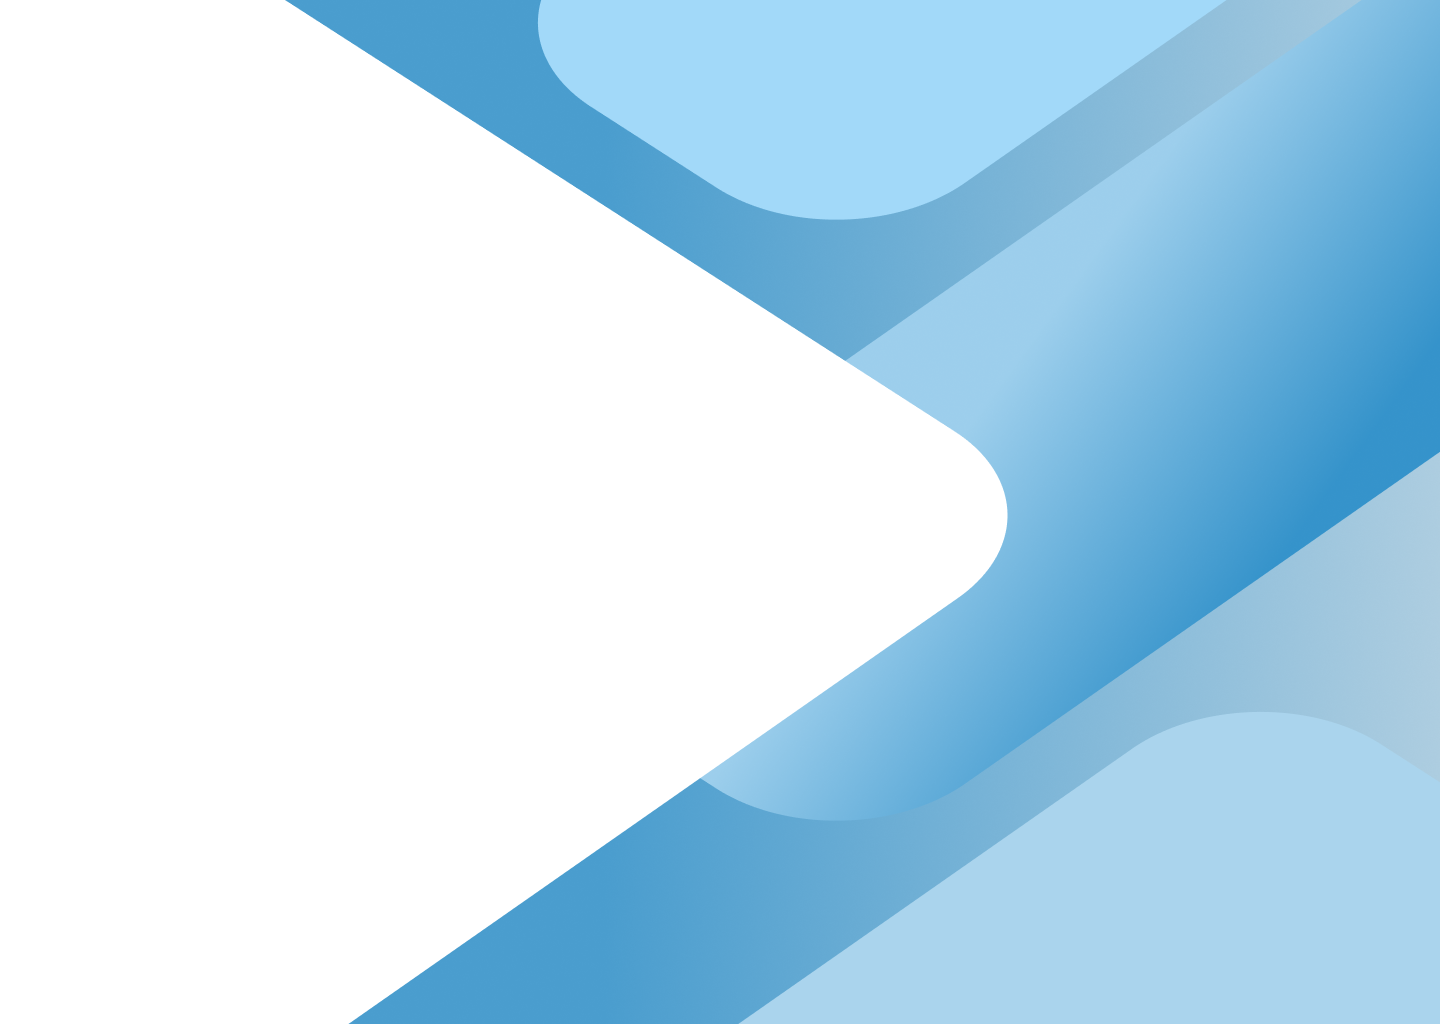
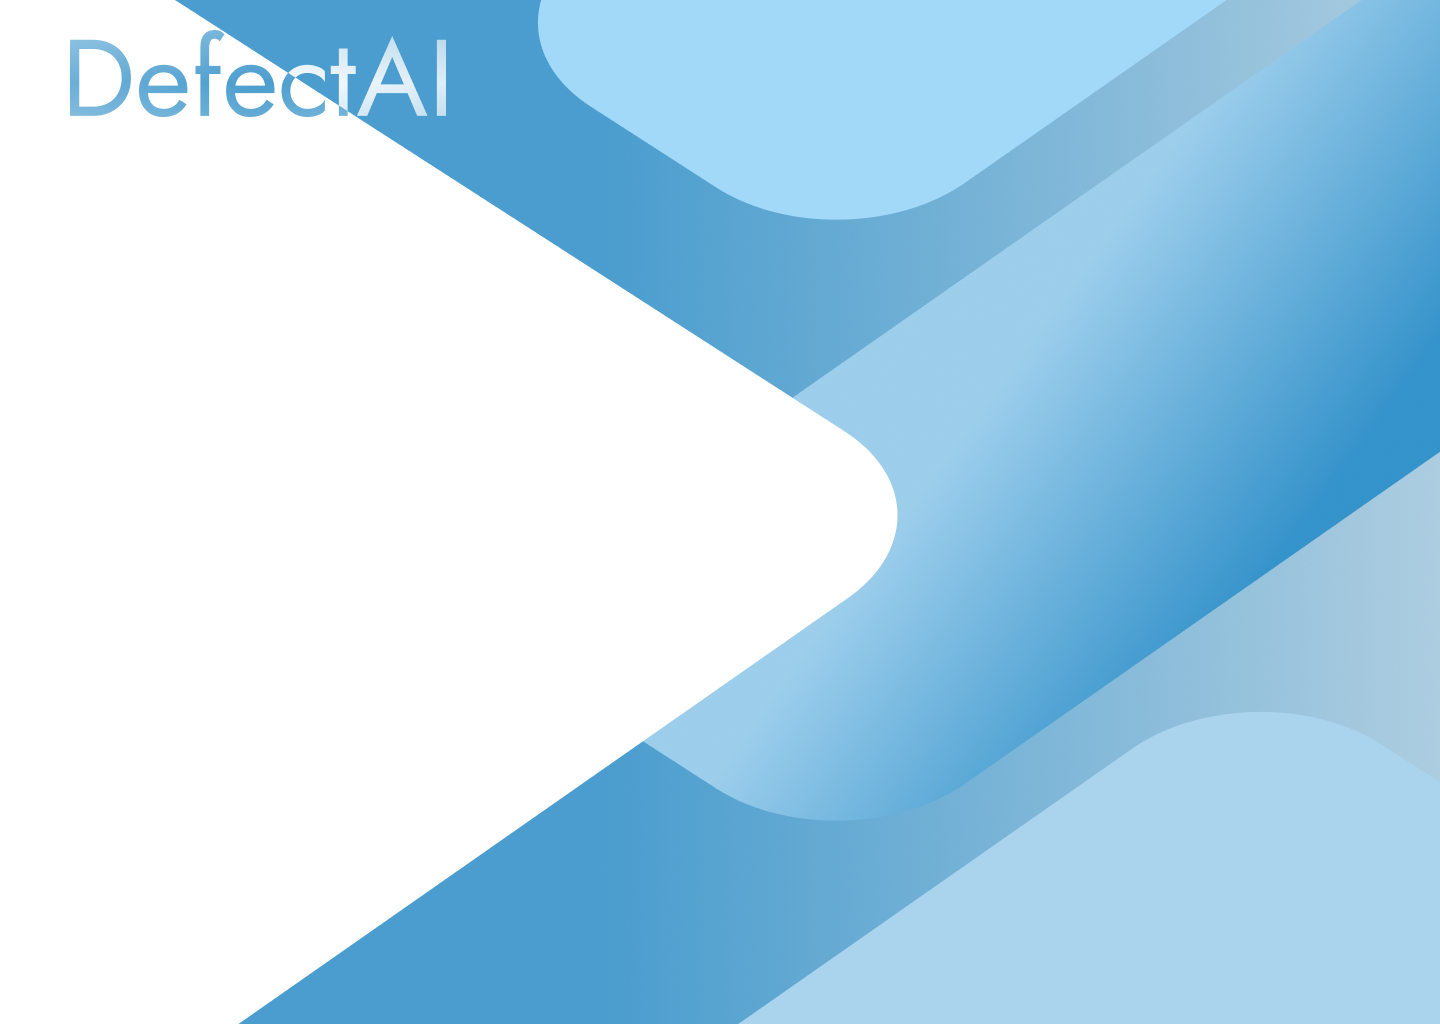
edit versions

Changed region(s): [[0.0312, 0.0, 0.7188, 1.0]]

diff --git a/src/components/Comparison.tsx b/src/components/Comparison.tsx
@@ -8,6 +8,8 @@ import { TriangleSquare } from "../ui";
 import { Loader } from "@mantine/core";
 import { IconChevronLeft, IconChevronRight } from "@tabler/icons-react";
 import { randomId } from "@mantine/hooks";
+import memo from '../img/memo.png';
+
 // import { GetSquareAmount } from "../modules/helpers";
 
 const Comparison: FC = () => {
@@ -63,14 +65,42 @@ const Comparison: FC = () => {
         return <h1>Ошибка</h1>
     }
     return (
-        <div ref={ref} style={{ width: "100%", height: "100%" }}>
-            <List items={currentArray} notFoundMessage='Не найдены координаты дефектов' renderItem={(triangle_square: number[]) => <TriangleSquare key={randomId()} firstTriangle={`10px solid ${triangle_square[0] == 1 ? 'red' : 'grey'}`} secondTriangle={`10px solid ${triangle_square[1] == 1 ? 'red' : 'grey'}`} />} />
+        <div ref={ref} style={{ width: "100%", height: "100%", marginTop: '90px' }}>
+            <List
+                items={currentArray}
+                notFoundMessage='Не найдены координаты дефектов'
+                renderItem={(triangle_square: number[]) => <TriangleSquare
+                    key={randomId()}
+                    firstTriangle={`10px solid ${triangle_square[0] == 1 ? 'red' : 'grey'}`}
+                    secondTriangle={`10px solid ${triangle_square[1] == 1 ? 'red' : 'grey'}`}
+                />}
+            />
             {i > 1 &&
-                <IconChevronLeft onClick={() => setI(i-4)}>Влево</IconChevronLeft>
+                <IconChevronLeft
+                    style={{
+                        color: '#4282ea',
+                        width: '50px',
+                        height: '50px'
+                    }}
+                    onClick={() => setI(i - 4)}
+                >Влево</IconChevronLeft>
             }
             {dataMatrix[i++] != undefined &&
-                <IconChevronRight onClick={() => setI(i++)}>Вправо</IconChevronRight>
+                <IconChevronRight
+                    style={{
+                        color: '#4282ea',
+                        width: '50px',
+                        height: '50px'
+                    }}
+                    onClick={() => setI(i++)}
+                >Вправо</IconChevronRight>
             }
+            <div style={{
+                display: 'flex',
+                justifyContent: 'flex-end'
+            }}>
+                <img width={'450px'} src={memo} />
+            </div>
         </div>
     )
 

diff --git a/src/components/Markup.tsx b/src/components/Markup.tsx
@@ -10,7 +10,9 @@ import { IconChevronLeft, IconChevronRight } from "@tabler/icons-react";
 import { randomId } from "@mantine/hooks";
 import { Button } from "@mantine/core";
 import { IconDownload } from "@tabler/icons-react";
+
 export const API_URL = 'http://localhost:4000'
+
 const Markup: FC = () => {
     const [searchParams, setSearchParams] = useSearchParams();
     let ref = useRef(null);
@@ -79,10 +81,24 @@ const Markup: FC = () => {
                 renderItem={(square: number) => <FilledSquare key={randomId()} background={square == 1 ? 'red' : '#b6b6b6'} />}
             />
             {i > 1 &&
-                <IconChevronLeft onClick={() => setI(i-4)}>Влево</IconChevronLeft>
+                <IconChevronLeft
+                    style={{
+                        color: '#4282ea',
+                        width: '50px',
+                        height: '50px'
+                    }}
+                    onClick={() => setI(i - 4)}
+                >Влево</IconChevronLeft>
             }
             {dataMatrix[i++] != undefined &&
-                <IconChevronRight onClick={() => setI(i++)}>Вправо</IconChevronRight>
+                <IconChevronRight
+                    style={{
+                        color: '#4282ea',
+                        width: '50px',
+                        height: '50px'
+                    }}
+                    onClick={() => setI(i++)}
+                >Вправо</IconChevronRight>
             }
             <div style={{
                 height: 'max-content',
@@ -93,9 +109,14 @@ const Markup: FC = () => {
                 margin: '25px'
             }}>
                 <IconDownload />
-                <span style={{ fontSize: '20px' }} onClick={() => window.open(`${API_URL}/${data?.data_table}`)}>Скачать таблицу по данной магнитограмме</span>
+                <span
+                    style={{ fontSize: '20px' }}
+                    onClick={() => window.open(`${API_URL}/${data?.data_table}`)}
+                >Скачать таблицу по данной магнитограмме</span>
             </div>
-            <Button onClick={() => navigate(`/versions?id=${searchParams.get("id")}`)}>Посмотреть все версии</Button>
+            <Button
+                onClick={() => navigate(`/versions?id=${searchParams.get("id")}`)}
+            >Посмотреть все версии</Button>
         </div>
     )
 }

diff --git a/src/components/Versions.tsx b/src/components/Versions.tsx
@@ -6,6 +6,7 @@ import { VersionsList } from "../modules/components";
 import { useDisclosure } from "@mantine/hooks";
 import CreateVersionModal from "../modules/components/CreateVersionModal";
 import '../ui/styles/mainDivSelect.css';
+import '../ui/styles/versionGridDiv.css';
 import { IconCirclePlus } from "@tabler/icons-react";
 
 
@@ -38,8 +39,8 @@ const Versions: FC = () => {
     let isSelected = useMemo(() => selection, [selection])
     let sel = true
     return (
-        <div className="mainDivSelect">
-            <div>
+        <div style={{width:'100%'}} className="mainDivSelect">
+            <div className="versionGridDiv">
                 <div
                     onClick={open}
                     style={{
@@ -49,19 +50,25 @@ const Versions: FC = () => {
                         cursor: 'pointer'
                     }}>
                     <IconCirclePlus width={90} height={90} />
-                    <h1 >Создать новую версию магнитограммы</h1>
+                    <h3 >Создать новую версию магнитограммы</h3>
                 </div>
                 {/* {isSelected
                     ? <h1 onClick={() => setSelection(true)}>Сравнить</h1>
                     : <h1>Выбрать</h1>
                     } */}
-                <VersionsList selection={selection} setSelection={setSelection} data={data} />
+                <VersionsList
+                    
+                    selection={selection}
+                    setSelection={setSelection}
+                    data={data}
+                />
             </div>
             <CreateVersionModal
                 opened={opened}
                 onClose={close}
-                onModalConfirmed={(file: File | null, version: string) => onModalConfirmed(file, version)} />
-        </div>
+                onModalConfirmed={(file: File | null, version: string) => onModalConfirmed(file, version)}
+            />
+        </div >
     )
 }
 export default Versions;

diff --git a/src/pages/page404/Error404.tsx b/src/pages/page404/Error404.tsx
@@ -3,7 +3,7 @@ import { Title, Text, Button, Container, Group } from '@mantine/core';
 import './Error404.modules.css';
 import { Context } from '../../main';
 import { useNavigate } from 'react-router-dom';
-
+import error404 from '../../img/404.png';
 
 const Error404: FC = () => {
   const { user } = useContext(Context)
@@ -20,15 +20,16 @@ const Error404: FC = () => {
 
   return (
     <Container className='root'>
-      <div className='label'>404</div>
-      <Title className='title'>You have found a secret place.</Title>
+      <div className='label'>
+        <img src={error404} width={'400px'}/>
+      </div>
+      <Title className='title'>Вы нашли секретное место.</Title>
       <Text c="dimmed" size="lg" ta="center" className='description'>
-        Unfortunately, this is only a 404 page. You may have mistyped the address, or the page has
-        been moved to another URL.
+        К сожалению, это всего лишь страница 404. Вы могли ошибиться в адресе сайта, или страница была перемещена на другой URL.
       </Text>
       <Group justify="center">
         <Button onClick={backHome} variant="subtle" size="md">
-          Take me back to home page
+          Вернуться на главную страницу
         </Button>
       </Group>
     </Container>

diff --git a/src/pages/layouts/MainPanel.tsx b/src/pages/layouts/MainPanel.tsx
@@ -7,8 +7,8 @@ import '../../ui/styles/mainPanelStyles/userImg.css';
 import '../../ui/styles/mainPanelStyles/commonDiv.css';
 import '../../ui/styles/mainPanelStyles/leftnavdiv.css';
 import '../../ui/styles/mainPanelStyles/iconLogout.css';
-import { IconArrowBarLeft, IconUser } from "@tabler/icons-react";
-
+import { IconArrowBarLeft } from "@tabler/icons-react";
+import logo from '../../img/DefectAI.png';
 
 const MainPanel: FC = () => {
   const location = useLocation();
@@ -27,6 +27,17 @@ const MainPanel: FC = () => {
       padding="md"
     >
       <AppShell.Navbar p="0" className="navbar">
+        <div>
+          <img
+            style={{
+              width: '184px',
+              margin: '7px',
+              cursor:'pointer'
+            }}
+            src={logo}
+            onClick={() => navigate('/main')}
+          />
+        </div>
         <div className="commonDiv">
           <div
             className={`menu ${location.pathname === "/main" ? "menu-main" : "menu"}`}
@@ -55,7 +66,7 @@ const MainPanel: FC = () => {
           <div style={{ marginLeft: '8px' }} onClick={logout}>Выйти</div>
         </div>
       </AppShell.Navbar>
-      <AppShell.Main style={{display:'flex', flexDirection:'column'}}>
+      <AppShell.Main style={{ display: 'flex', flexDirection: 'column' }}>
         <Outlet />
       </AppShell.Main>
     </AppShell>

diff --git a/src/modules/components/VersionsList.tsx b/src/modules/components/VersionsList.tsx
@@ -4,6 +4,8 @@ import { Checkbox } from "@mantine/core";
 import VersionCard from "./VersionCard";
 import { useNavigate, useSearchParams } from "react-router-dom";
 import { randomId } from "@mantine/hooks";
+import '../../ui/styles/customH1.css';
+
 interface VersionList {
     selection: boolean;
     setSelection: React.Dispatch<SetStateAction<boolean>>;
@@ -21,13 +23,17 @@ const VersionsList: FC<VersionList> = (props) => {
 
     return (
         <>
-            <div>
+            <div style={{ gridColumn: 3 }}>
                 {props.selection
-                    ? <h1 onClick={HandleComparison}>Сравнить</h1>
-                    : <h1 onClick={() => props.setSelection(true)}>Выбрать</h1>
+                    ? <span
+                        className="customH1"
+                        onClick={HandleComparison}>Сравнить</span>
+                    : <span
+                        className="customH1"
+                        onClick={() => props.setSelection(true)}>Выбрать</span>
                 }
             </div>
-            <div>
+            <div style={{ gridRowEnd: 4, gridColumn: 2 }}>
                 {props.selection
                     ? <Checkbox.Group value={checkboxvalue} onChange={setCheckboxvalue} >
                         {props.data?.map((markup_version, index) =>

diff --git a/src/modules/components/CreateModalMag.tsx b/src/modules/components/CreateModalMag.tsx
@@ -5,7 +5,7 @@ import { ModalAddMag } from ".";
 interface CreateModalMagProps {
     opened: boolean;
     onClose: () => void;
-    onModalConfirmed: (file: File | null, title: string) => void;
+    onModalConfirmed: (title: string, file: File | null) => void;
 }
 const CreateModalMag: FC<CreateModalMagProps> = (props) => {
     return (
@@ -17,7 +17,7 @@ const CreateModalMag: FC<CreateModalMagProps> = (props) => {
             onModalConfirmed={() => false}
         >
             {/* <MarkupModalForm onSubmit={(file, title) => props.onModalConfirmed(title, file)}/> */}
-            <MarkupModalForm onSubmit={(title: string, file: File | null) => props.onModalConfirmed(file, title)} />
+            <MarkupModalForm onSubmit={(title: string, file: File | null) => props.onModalConfirmed(title, file)} />
         </ModalAddMag>
     )
 }

diff --git a/src/modules/components/CreateMarkupCard.tsx b/src/modules/components/CreateMarkupCard.tsx
@@ -16,7 +16,7 @@ const CreateMagnetogramCard: FC<CreateMagnetogramCardProps> = ({ pipe_id }) => {
     const onModalConfirmed = async (title: string, file: File | null) => {
 
         const formdata = new FormData()
-        
+
         formdata.append("pipe_id", pipe_id)
         formdata.append("version", "1.0.0")
         formdata.append("title", title)
@@ -24,7 +24,7 @@ const CreateMagnetogramCard: FC<CreateMagnetogramCardProps> = ({ pipe_id }) => {
         if (file != null) {
             formdata.append("file", file)
         }
-        
+
         const response = await magnetogram.createMagnetogram(formdata)
         console.log(response)
         close()

diff --git a/src/ui/styles/mainPanelStyles/commonDiv.css b/src/ui/styles/mainPanelStyles/commonDiv.css
@@ -2,15 +2,22 @@
     display: flex;
     flex-direction: column;
     width: 100%;
-    color: #607ddd;
+    color: #4282ea;
     height: 12%;
     align-items: center;
     justify-content: center;
-    border: 1px solid #e9e9e9;
+}
+
+.menu{
+    cursor: pointer;
+    height: -webkit-fill-available;
+    width: 100%;
+    padding: 10px 15px;
 }
 
 .menu:hover{
-    color: rgb(35, 88, 212);;
+    color:white;
+    background: rgb(66, 130, 234);
 }
 
 .menu-main{

diff --git a/src/ui/styles/mainPanelStyles/leftnavdiv.css b/src/ui/styles/mainPanelStyles/leftnavdiv.css
@@ -1,17 +1,14 @@
 .leftnavdiv {
-    font-weight: 700;
-    font-size: x-large;
     width: 100%;
     padding: var(--mantine-spacing-md);
     display: flex;
     flex-direction: column;
-    align-items: center;
-    color: #4a9dce;
+    align-items: flex-start;
+    color: #4282ea;
 }
 
 .navbar{
     display: flex;
-    align-items: stretch;
     flex-direction: column;
-    justify-content: space-between;
+    justify-content: flex-start;
 }

diff --git a/src/pages/page404/Error404.modules.css b/src/pages/page404/Error404.modules.css
@@ -20,7 +20,7 @@
   max-width: rem(500px);
   margin: auto;
   margin-top: var(--mantine-spacing-xl);
-  margin-bottom: calc(1.5 * var(--mantine-spacing-xl));
+  margin-bottom: calc(2 * var(--mantine-spacing-xl));
 }
 
 .title {

diff --git a/src/ui/styles/versionGridDiv.css b/src/ui/styles/versionGridDiv.css
@@ -1,0 +1,8 @@
+.versionGridDiv{
+    width: 95%;
+    display: grid;
+    gap: 33px 0px;
+    grid-template-columns: repeat(3,1fr);
+    align-items: center;
+    justify-items: center;
+}
